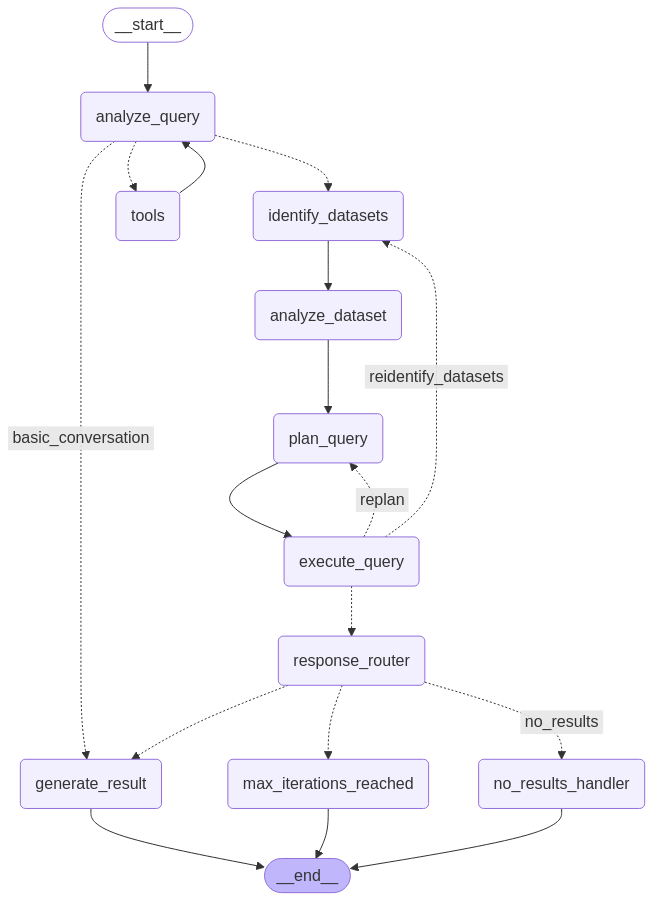
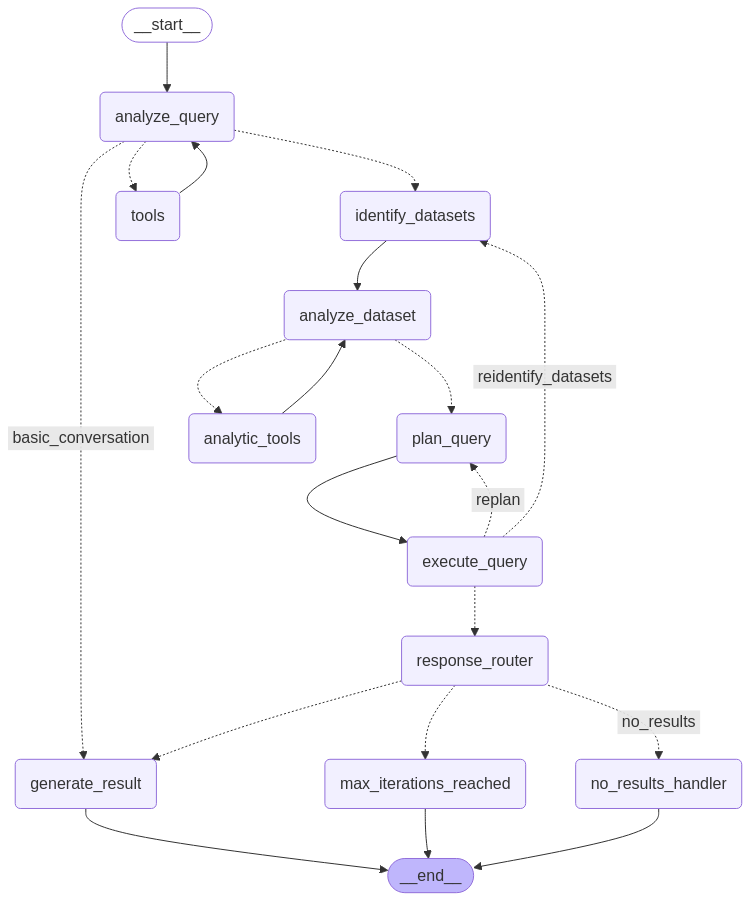
feat: update graph structure

diff --git a/src/lib/graph/__init__.py b/src/lib/graph/__init__.py
@@ -7,7 +7,7 @@ from src.lib.graph.response.no_result import no_results_handler
 from src.lib.graph.response.response_handler import route_response_handler
 from src.lib.graph.types import State
 from src.lib.graph.identify_datasets import identify_datasets
-from src.lib.graph.analyze_dataset import analyze_dataset
+from src.lib.graph.analyze_dataset import analyze_dataset, route_from_dataset_analysis
 from src.lib.graph.analyze_query import analyze_query, route_from_analysis
 from src.tools import TOOLS
 from src.tools.tool_node import ToolNode
@@ -22,6 +22,7 @@ graph_builder.add_node("max_iterations_reached", max_iterations_reached)
 graph_builder.add_node("no_results_handler", no_results_handler)
 graph_builder.add_node("analyze_dataset", analyze_dataset)
 graph_builder.add_node("tools", ToolNode(tools=list(TOOLS.values())))
+graph_builder.add_node("analytic_tools", ToolNode(tools=list(TOOLS.values())))
 graph_builder.add_node("response_router", lambda x: x)
 
 graph_builder.add_conditional_edges(
@@ -54,10 +55,19 @@ graph_builder.add_conditional_edges(
     },
 )
 
+graph_builder.add_conditional_edges(
+    "analyze_dataset",
+    route_from_dataset_analysis,
+    {
+        "analytic_tools": "analytic_tools",
+        "plan_query": "plan_query"
+    }
+)
+
+graph_builder.add_edge("analytic_tools", "analyze_dataset")
 graph_builder.add_edge("tools", "analyze_query")
 graph_builder.add_edge(START, "analyze_query")
 graph_builder.add_edge("identify_datasets", "analyze_dataset")
-graph_builder.add_edge("analyze_dataset", "plan_query")
 graph_builder.add_edge("plan_query", "execute_query")
 graph_builder.add_edge("generate_result", END)
 graph_builder.add_edge("max_iterations_reached", END)
@@ -83,6 +93,7 @@ async def stream_graph_updates(user_input: str):
         for event_type in event_types:
             if event_type in event:
                 if event[event_type] and "messages" in event[event_type]:
+                    print(event_type)
                     print(str(event[event_type]["messages"][-1].content) + "\n\n")
                     yield str(event[event_type]["messages"][-1].content) + "\n\n"
 

diff --git a/src/lib/graph/execute_query.py b/src/lib/graph/execute_query.py
@@ -27,6 +27,9 @@ def execute_query(state: State) -> dict:
     con = None
     try:
         last_message = state['messages'][-1]
+        if isinstance(last_message, ErrorMessage):
+            pass
+
         content = last_message.content if isinstance(last_message.content, str) else json.dumps(last_message.content)
 
         parser = JsonOutputParser()

diff --git a/src/lib/graph/analyze_dataset.py b/src/lib/graph/analyze_dataset.py
@@ -4,3 +4,7 @@ from langchain_core.messages import AIMessage
 def analyze_dataset(state: State):
     """Analyze the dataset structure and prepare for query planning"""
     pass
+
+def route_from_dataset_analysis(state: State):
+    """Route to the next node based on the results of dataset analysis"""
+    pass

diff --git a/src/lib/graph/response/no_result.py b/src/lib/graph/response/no_result.py
@@ -1,4 +1,3 @@
-
 import json
 from src.lib.graph.types import AIMessage, ErrorMessage, IntermediateStep, State
 from src.lib.config.langchain_config import lc
